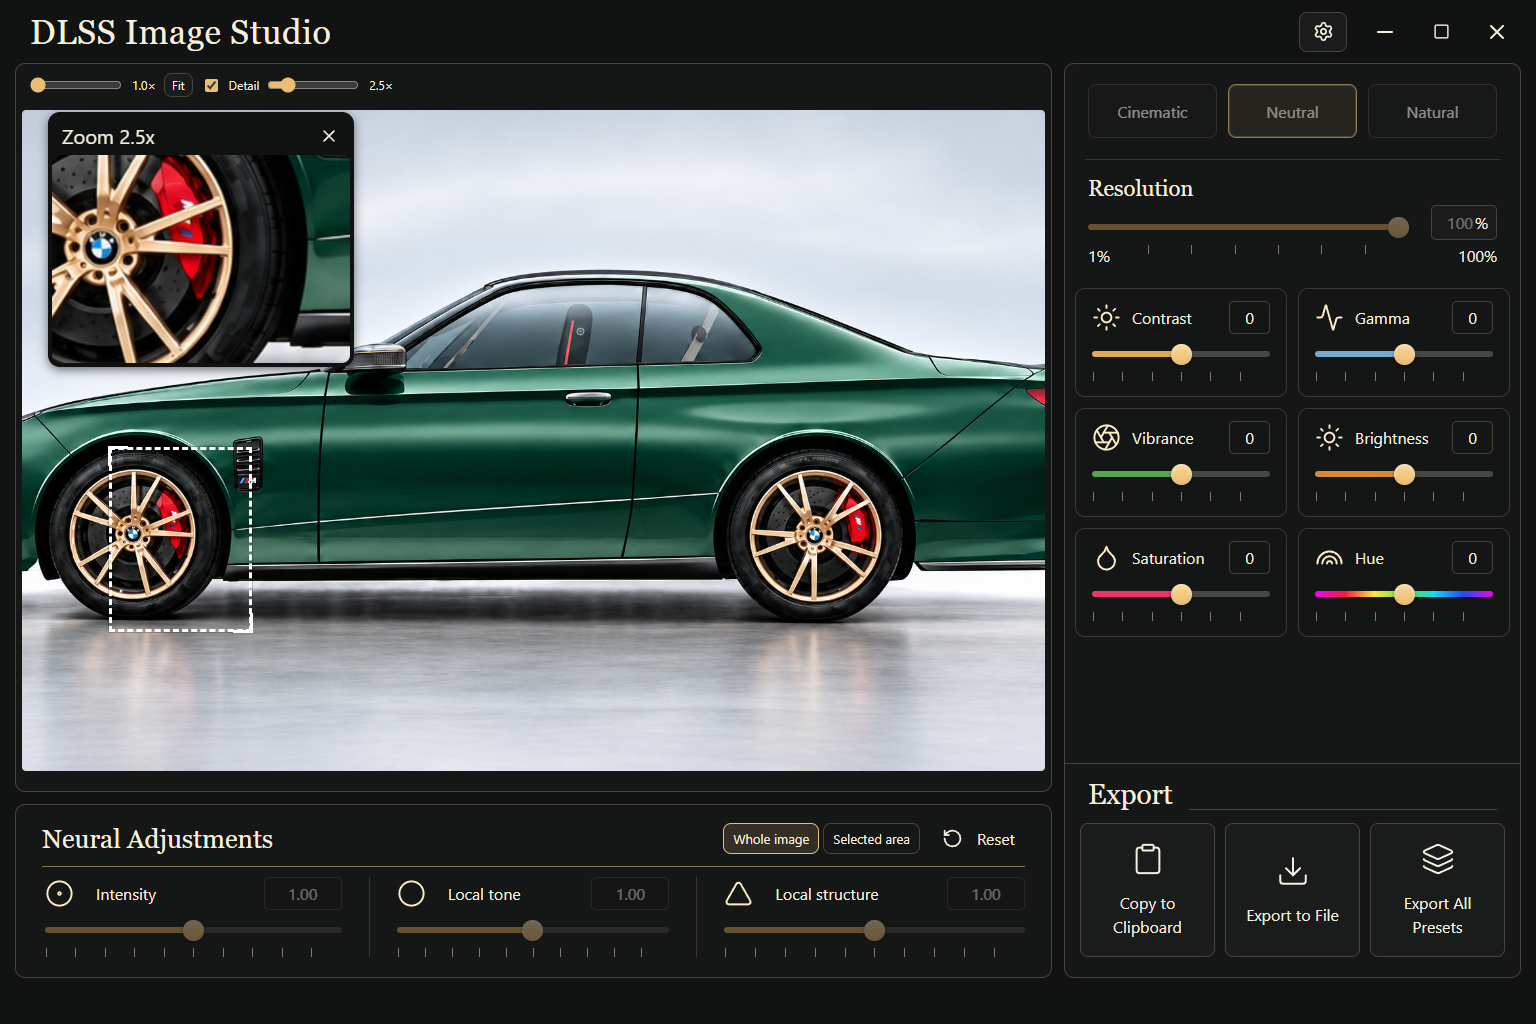
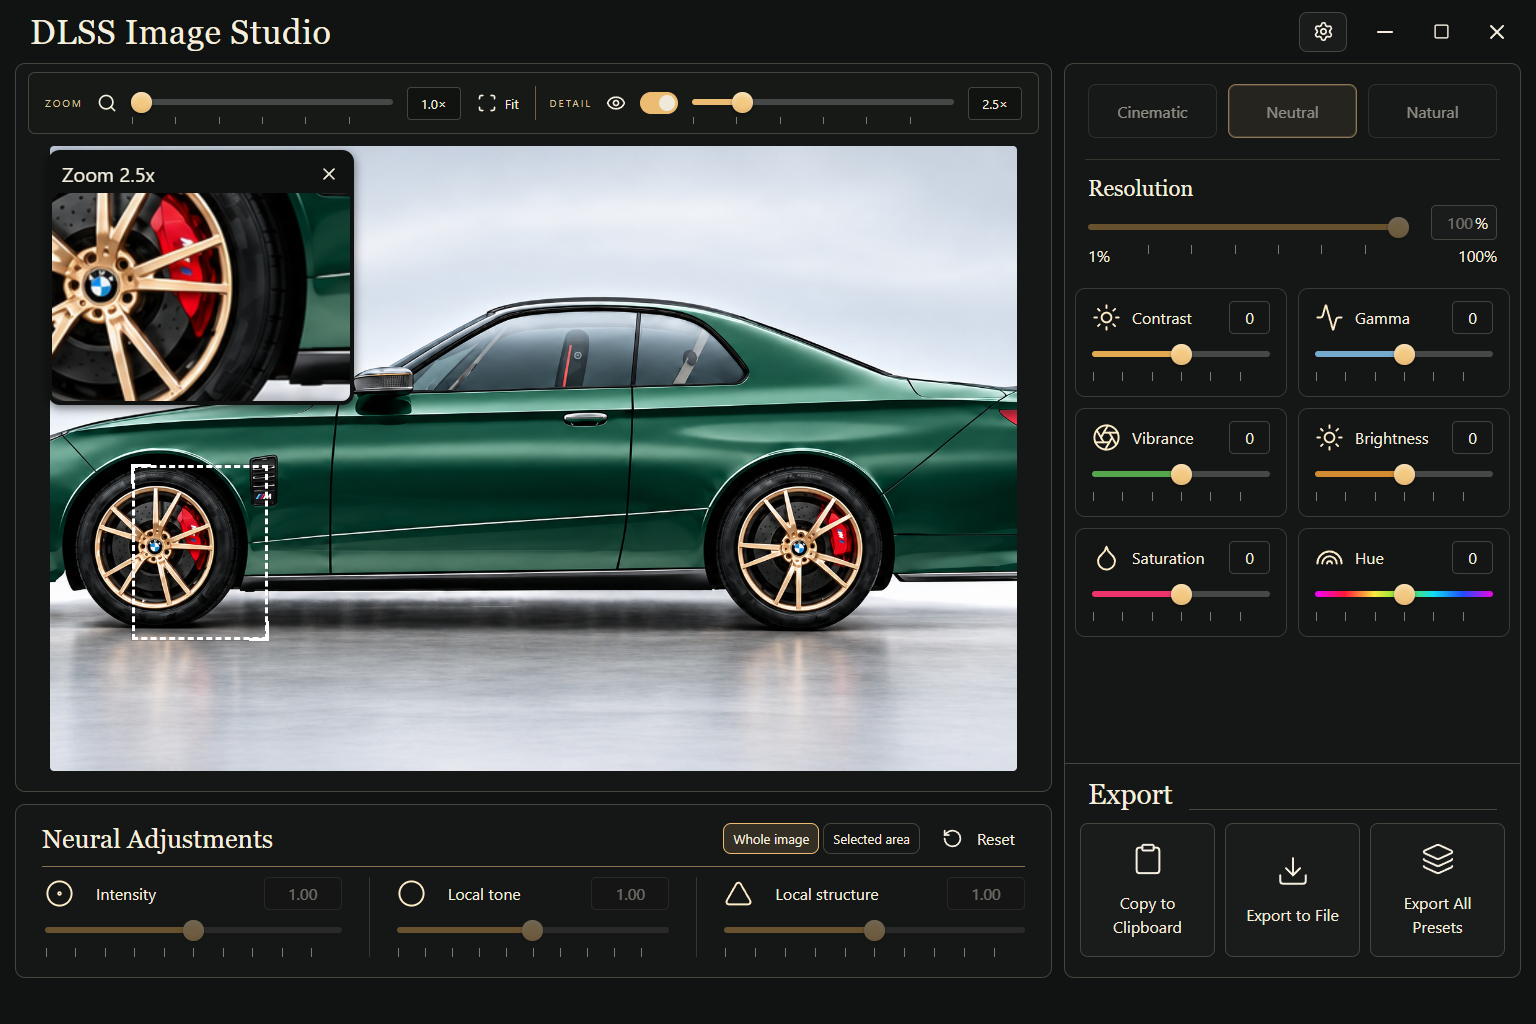
Style zoom toolbar as instrument strip with matching sliders

Changed region(s): [[0.0, 0.0625, 0.6875, 0.75]]

diff --git a/src/App.tsx b/src/App.tsx
@@ -24,6 +24,9 @@ import {
   Clipboard,
   Download,
   Layers,
+  Search,
+  Scan,
+  Eye,
 } from "lucide-react";
 import { invoke, isTauri, convertFileSrc } from "@tauri-apps/api/core";
 import { getCurrentWindow } from "@tauri-apps/api/window";
@@ -621,54 +624,37 @@ export default function App() {
             }}
           >
             <div className="image-toolbar">
-              <label>
-                <RangeInput
-                  label="Image zoom"
-                  min={1}
-                  max={10}
-                  step={0.1}
-                  value={view.scale}
-                  onValue={(v) => zoomImage(v)}
-                />
-              </label>
-              <span>{view.scale.toFixed(1)}×</span>
-              <button onClick={() => setView({ scale: 1, x: 0, y: 0 })}>
-                Fit
+              <span className="view-label">Zoom</span>
+              <Search size={20} aria-hidden="true" />
+              <div className="slider-wrap view-slider">
+                <RangeInput label="Image zoom" min={1} max={10} step={0.1}
+                  value={view.scale} onValue={(v) => zoomImage(v)}
+                  style={{ "--accent": "var(--gold)", "--fill": `${((view.scale - 1) / 9) * 100}%` } as CSSProperties} />
+                <div className="ticks" />
+              </div>
+              <output className="view-value">{view.scale.toFixed(1)}×</output>
+              <button className="fit-view" onClick={() => setView({ scale: 1, x: 0, y: 0 })}>
+                <Scan size={20} aria-hidden="true" /> Fit
               </button>
-              <label>
-                <input
-                  type="checkbox"
-                  aria-label="Show zoom inspector"
+              <span className="view-divider" />
+              <span className="view-label">Detail</span>
+              <Eye size={20} aria-hidden="true" />
+              <label className="inspector-switch" title="Show zoom inspector">
+                <input type="checkbox" aria-label="Show zoom inspector"
                   checked={state.zoom.visible}
-                  onChange={(e) =>
-                    setState((s) => ({
-                      ...s,
-                      zoom: { ...s.zoom, visible: e.target.checked },
-                    }))
-                  }
-                />{" "}
+                  onChange={(e) => setState((s) => ({ ...s, zoom: { ...s.zoom, visible: e.target.checked } }))} />
+                <span aria-hidden="true" />
               </label>
-              {state.zoom.visible && (
-                <>
-                  <label>
-                    Detail{" "}
-                    <RangeInput
-                      label="Inspector zoom factor"
-                      min={1}
-                      max={10}
-                      step={0.1}
-                      value={state.zoom.factor}
-                      onValue={(v) =>
-                        setState((s) => ({
-                          ...s,
-                          zoom: { ...s.zoom, factor: v },
-                        }))
-                      }
-                    />
-                  </label>
-                  <span>{state.zoom.factor.toFixed(1)}×</span>
-                </>
-              )}
+              {state.zoom.visible && <>
+                <div className="slider-wrap view-slider">
+                  <RangeInput label="Inspector zoom factor" min={1} max={10} step={0.1}
+                    value={state.zoom.factor}
+                    onValue={(v) => setState((s) => ({ ...s, zoom: { ...s.zoom, factor: v } }))}
+                    style={{ "--accent": "var(--gold)", "--fill": `${((state.zoom.factor - 1) / 9) * 100}%` } as CSSProperties} />
+                  <div className="ticks" />
+                </div>
+                <output className="view-value">{state.zoom.factor.toFixed(1)}×</output>
+              </>}
             </div>
             <div
               className="viewport"

diff --git a/src/style.css b/src/style.css
@@ -753,7 +753,7 @@ select:disabled {
 /* View controls do not alter processed pixels or exported dimensions. */
 .image-panel {
   position: relative;
-  padding-top: 46px;
+  padding-top: 82px;
 }
 .viewport {
   overflow: hidden;
@@ -761,30 +761,40 @@ select:disabled {
 }
 .image-toolbar {
   position: absolute;
-  top: 9px;
+  top: 8px;
   left: 12px;
   right: 12px;
+  height: 62px;
   display: flex;
   align-items: center;
-  gap: 8px;
-  font-size: 12px;
+  gap: 14px;
+  padding: 0 16px;
+  border: 1px solid var(--border);
+  border-radius: 7px;
+  background: #171916;
+  font-size: 13px;
   white-space: nowrap;
 }
-.image-toolbar label {
-  display: flex;
-  align-items: center;
-  gap: 6px;
-}
-.image-toolbar input[type="range"] {
-  width: 92px;
-  accent-color: var(--gold);
-}
-.image-toolbar input[type="checkbox"] {
-  accent-color: var(--gold);
-}
-.image-toolbar button {
-  padding: 3px 7px;
-  font-size: 12px;
+.image-toolbar > svg { flex-shrink: 0; }
+.view-label { text-transform: uppercase; letter-spacing: 2px; font-size: 10px; color: #dbc69c; }
+.image-toolbar .view-slider { flex: 1; min-width: 50px; margin: 0; }
+.image-toolbar .view-slider input { margin: 17px 0 12px; }
+.image-toolbar .ticks { height: 7px; }
+.view-value { min-width: 54px; text-align: center; padding: 7px 8px; border: 1px solid var(--border); border-radius: 4px; background: #111310; font-variant-numeric: tabular-nums; }
+.image-toolbar .fit-view { display: flex; align-items: center; gap: 8px; border: 0; background: transparent; padding: 8px 2px; font-size: 13px; }
+.view-divider { height: 34px; width: 1px; background: #706047; }
+.inspector-switch { position: relative; display: block; width: 38px; height: 22px; flex-shrink: 0; cursor: pointer; }
+.inspector-switch input { position: absolute; inset: 0; width: 100%; height: 100%; margin: 0; opacity: 0; cursor: pointer; z-index: 1; }
+.inspector-switch span { position: absolute; inset: 0; border-radius: 12px; background: #464747; border: 1px solid #777367; }
+.inspector-switch span::after { content: ''; position: absolute; top: 2px; left: 2px; width: 16px; height: 16px; border-radius: 50%; background: #eee9db; transition: transform 120ms; }
+.inspector-switch input:checked + span { background: var(--gold); border-color: var(--gold); }
+.inspector-switch input:checked + span::after { transform: translateX(16px); }
+.inspector-switch input:focus-visible + span { outline: 2px solid var(--gold); outline-offset: 3px; }
+@media (max-width: 1200px) {
+  .image-toolbar { gap: 8px; padding: 0 9px; }
+  .view-label { letter-spacing: 1px; }
+  .view-value { min-width: 42px; padding: 7px 4px; }
+  .image-toolbar > svg { width: 16px; }
 }
 input[type="range"] {
   touch-action: none;

diff --git a/src/state.ts b/src/state.ts
@@ -42,7 +42,7 @@ export const defaults = (): StudioState => ({
     structure: 1,
     region: { x: 0.08, y: 0.51, width: 0.14, height: 0.28 },
   },
-  zoom: { visible: true, factor: 2.5, position: { x: 48, y: 112 } },
+  zoom: { visible: true, factor: 2.5, position: { x: 48, y: 150 } },
 });
 export const presets: Record<Style, Adjustments> = {
   neutral: {
